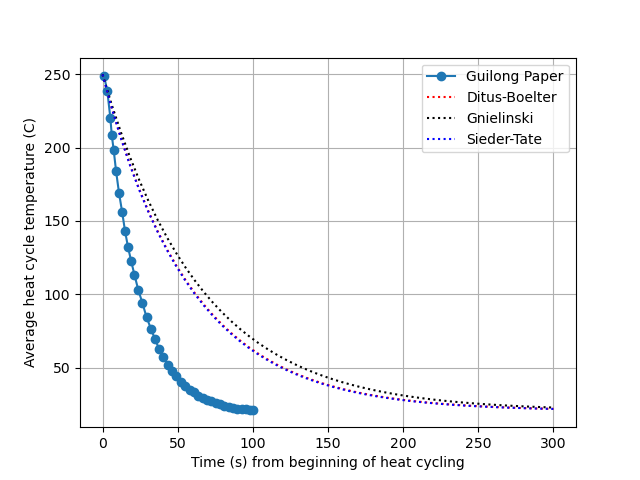
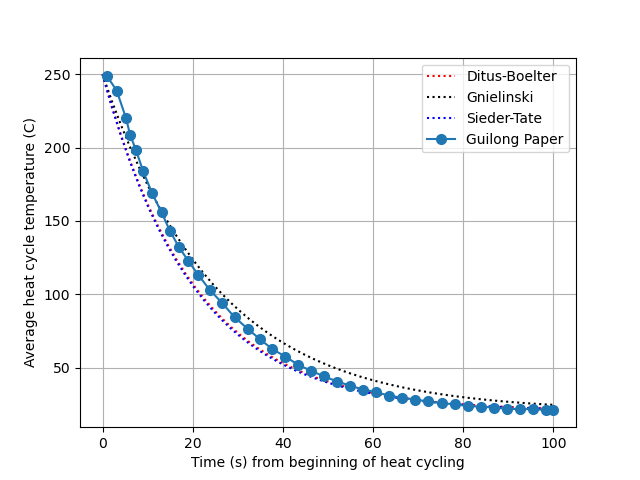
Found error in Guilong test case data, wrong mold material properties were being used

diff --git a/TestCases/guilongcomparison.py b/TestCases/guilongcomparison.py
@@ -4,7 +4,7 @@ PP = 1059.2
 #density of plastic part kg/m^3
 CP = 1903
 #specific heat capacity of plastic part J/KG*K
-LP = 0.0015
+LP = 0.003/2
 #half the plastic part thickness m
 W = 0.015
 #cooling line pitch distance m
@@ -20,7 +20,7 @@ TCycle = 60
 #Cycle time seconds
 TMO = 250
 #Initial mold temperature
-CVV = 0.16
+CVV = 0.157
 #coolant velocity liters/sec
 DV = 9.82*10**-4
 #coolant dynamic viscosity
@@ -35,33 +35,33 @@ CC = 4186
 L = 1.15
 #coolant line length
 
-moldmatname1 = "1045 Steel" 
+moldmatname1 = "6262 Aluminum" 
 #name of first mold material
-moldmatname2 = "1045 Steel" 
+moldmatname2 = "6262 Aluminum" 
 #name of second mold material
-moldmatname3 = "1045 Steel" 
+moldmatname3 = "6262 Aluminum" 
 #name of third mold material
-mat1PM = 7850
+mat1PM = 2810
 #First comparison Mold density kg/m^3
-mat2PM = 7850
+mat2PM = 2810
 #Second comparison Mold density kg/m^3
-mat3PM = 7850
+mat3PM = 2810
 #Third comparison Mold density kg/m^
-mat1CM = 486
+mat1CM = 960
 #First comparison Mold specific heat
-mat2CM = 486
+mat2CM = 960
 #Second comparison Mold specific heat
-mat3CM = 486
+mat3CM = 960
 #Third comparison Mold specific heat
-mat1fancye = 0.0004
+mat1fancye = 0.001 * 10**-3
 #First comparison average height of pipe surface irregularities (m) 
-mat2fancye = 0.0004
+mat2fancye = 0.001 * 10**-3
 #Second comparison average height of pipe surface irregularities (m)
-mat3fancye = 0.0004
+mat3fancye = 0.001 * 10**-3
 #Third comparison average height of pipe surface irregularities (m)
-mat1KM = 49.8
+mat1KM = 130
 #First comparison thermal conductivity of mold
-mat2KM = 49.8
+mat2KM = 130
 #Second comparison thermal conductivity of mold
-mat3KM = 49.8
+mat3KM = 130
 #Third comparison thermal conductivity of mold

diff --git a/paccman.py b/paccman.py
@@ -170,6 +170,7 @@ if programfunction == "N" or programfunction == "n" or programfunction == "H" or
         plt.plot(x,y2,'black', ls=('dotted'), label='Gnielinski')
         plt.plot(x,y3,'b', ls=('dotted'), label='Sieder-Tate')
         plt.xlabel("Time (s) from beginning of heat cycling")
+
     elif programfunction == "H" or programfunction == "h":
         plt.plot(x,y1,'r', ls=('none'), marker="o", markersize=7, label='Ditus-Boelter')
         plt.plot(x,y2,'black', ls=('none'), marker="o", markersize=7, label='Gnielinski')
